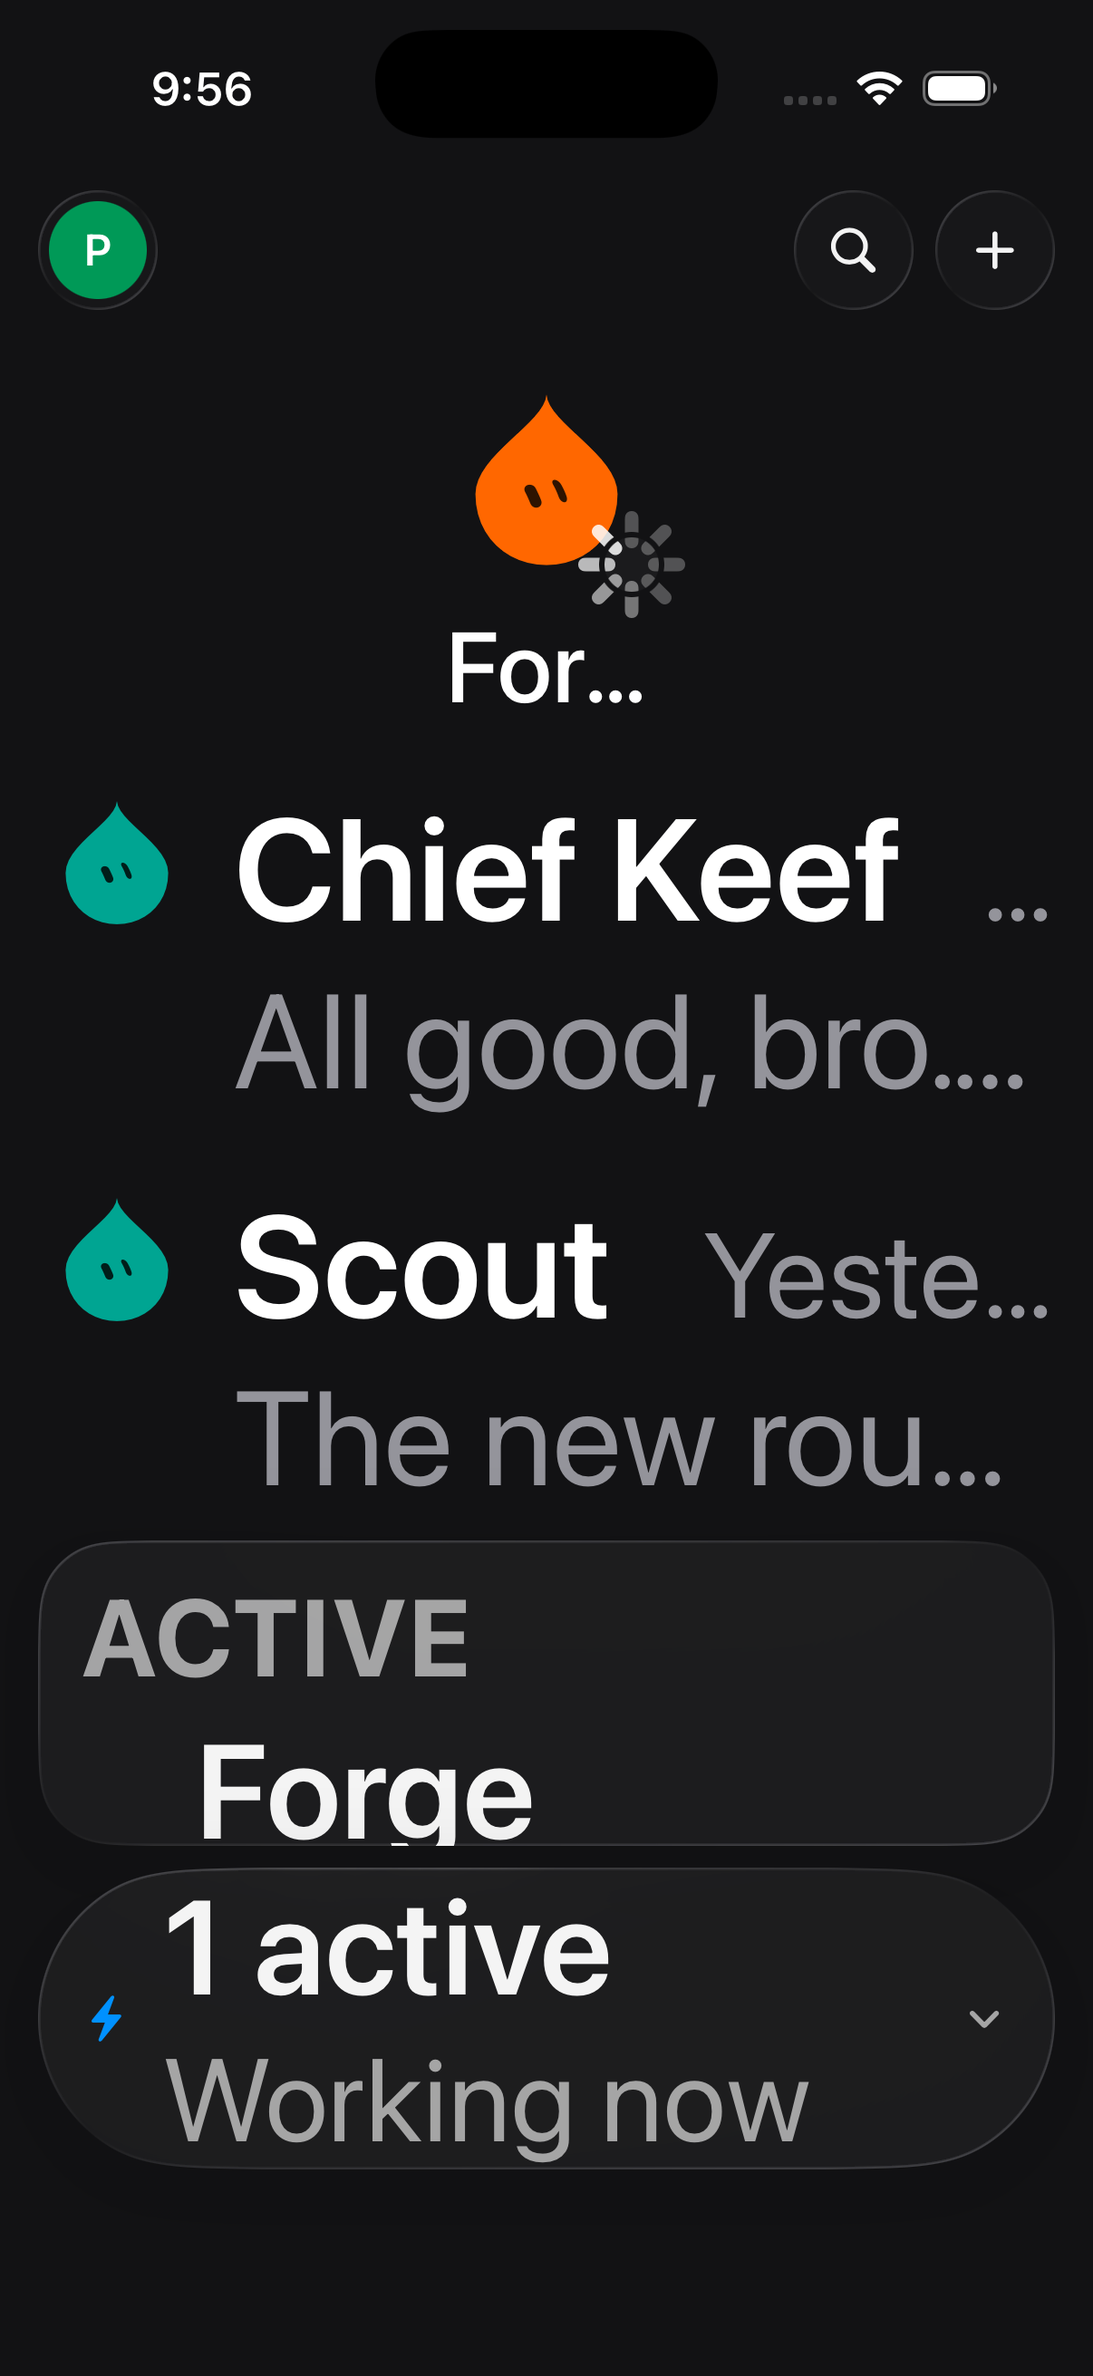
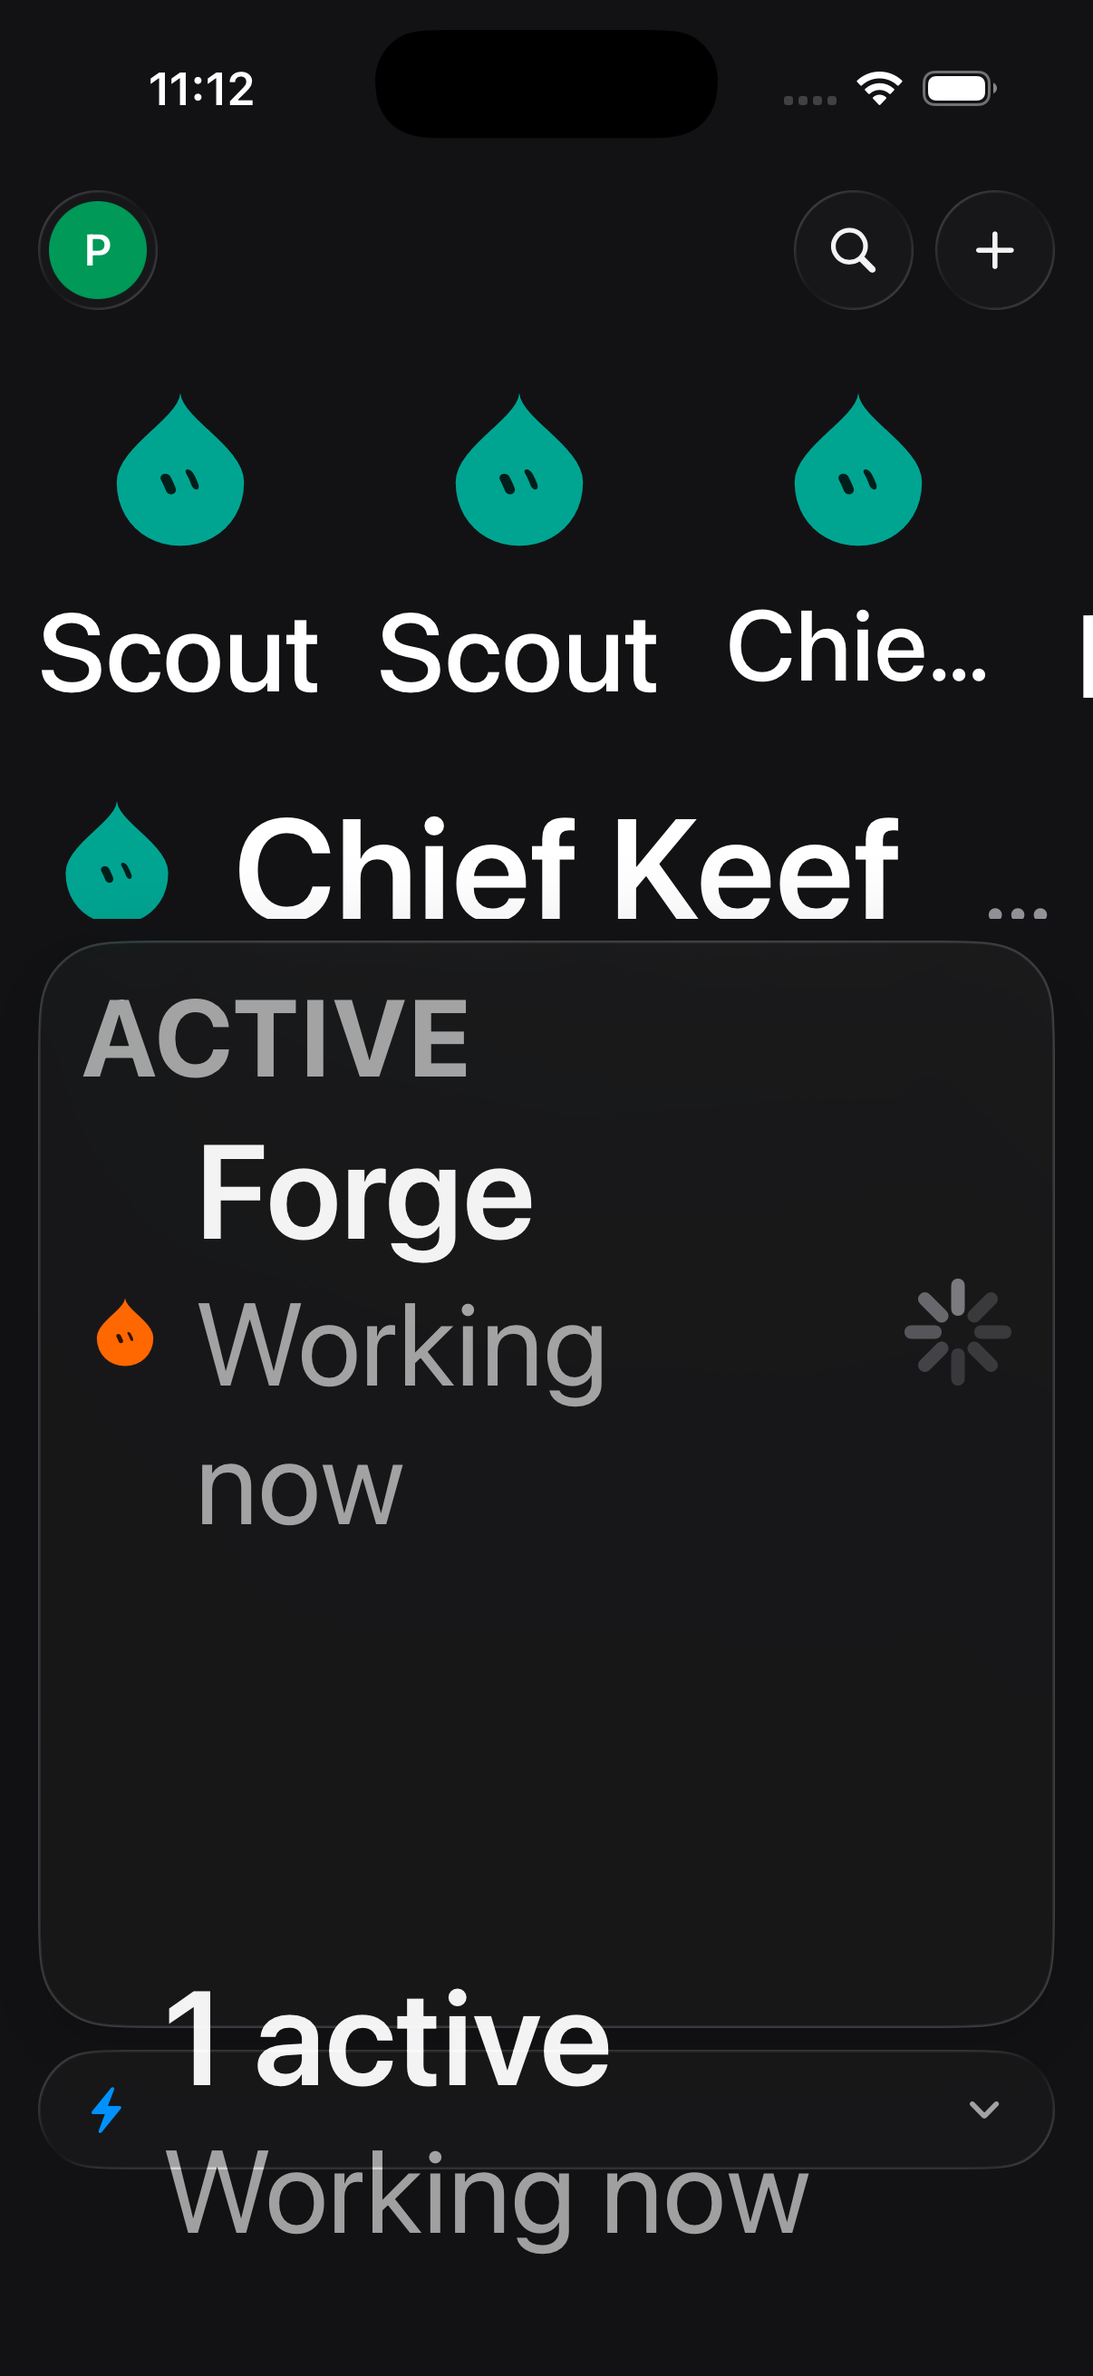
fix(ios): stabilize preview activity expansion

diff --git a/ios/App/HomeActivityPill.swift b/ios/App/HomeActivityPill.swift
@@ -12,6 +12,7 @@ struct HomeActivityPill: View {
 
     @EnvironmentObject private var session: Session
     @Environment(\.accessibilityReduceMotion) private var reduceMotion
+    @Environment(\.dynamicTypeSize) private var dynamicTypeSize
     @State private var expanded = false
 
     private var presentation: HomeActivityPresentation {
@@ -41,16 +42,29 @@ struct HomeActivityPill: View {
         .onAppear {
             // Keep expanded-state captures deterministic without adding any
             // production state or changing the normal collapsed launch.
-            if ProcessInfo.processInfo.arguments.contains("-preview-expand-activity"),
-               !presentation.items.isEmpty {
-                expanded = true
-            }
+            autoExpandPreviewIfNeeded()
+        }
+        .onChange(of: presentation.items) { _, _ in
+            // StorePreview may hydrate after the first appearance. Retry on
+            // the published projection instead of racing the initial render.
+            autoExpandPreviewIfNeeded()
         }
 #endif
         .onChange(of: presentation.state) { _, state in
             if state == .quiet, expanded { expanded = false }
         }
     }
+
+#if DEBUG
+    private func autoExpandPreviewIfNeeded() {
+        guard HomeActivityPreviewExpansionPolicy.shouldAutoExpand(
+            arguments: ProcessInfo.processInfo.arguments,
+            presentation: presentation,
+            isExpanded: expanded
+        ) else { return }
+        expanded = true
+    }
+#endif
 
     private var collapsedButton: some View {
         Button {
@@ -98,7 +112,7 @@ struct HomeActivityPill: View {
     }
 
     private var expandedPanel: some View {
-        ScrollView(.vertical, showsIndicators: false) {
+        ScrollView(.vertical, showsIndicators: dynamicTypeSize.isAccessibilitySize) {
             VStack(alignment: .leading, spacing: 0) {
                 ForEach(presentation.sections) { section in
                     let rows = section.items.compactMap { item -> (HomeActivityPresentation.Item, Chat)? in
@@ -126,7 +140,13 @@ struct HomeActivityPill: View {
             }
             .padding(.bottom, 8)
         }
-        .frame(maxHeight: 320)
+        .frame(
+            minHeight: HomeActivityPreviewExpansionPolicy.expandedPanelMinHeight(
+                isAccessibilitySize: dynamicTypeSize.isAccessibilitySize,
+                isExpanded: expanded
+            ),
+            maxHeight: dynamicTypeSize.isAccessibilitySize ? 400 : 320
+        )
         .glassSheet(cornerRadius: VBotSurface.Radius.sheet)
         .accessibilityElement(children: .contain)
         .accessibilityLabel("Activity details")
@@ -154,6 +174,7 @@ private struct HomeActivityRow: View {
     let chat: Chat
     let open: () -> Void
     @EnvironmentObject private var session: Session
+    @Environment(\.dynamicTypeSize) private var dynamicTypeSize
 
     var body: some View {
         Button(action: open) {
@@ -168,7 +189,11 @@ private struct HomeActivityRow: View {
                     Text(item.subtitle.isEmpty ? fallbackSubtitle : item.subtitle)
                         .font(.caption)
                         .foregroundStyle(.secondary)
-                        .lineLimit(2)
+                        // Accessibility captures need the complete approval
+                        // detail; the expanded panel scrolls when this grows
+                        // beyond its reserved height.
+                        .lineLimit(dynamicTypeSize.isAccessibilitySize ? nil : 2)
+                        .fixedSize(horizontal: false, vertical: true)
                 }
                 Spacer(minLength: 4)
                 trailing

diff --git a/ios/Tests/CompanionCoreTests/HomeActivityPreviewExpansionPolicyTests.swift b/ios/Tests/CompanionCoreTests/HomeActivityPreviewExpansionPolicyTests.swift
@@ -1,0 +1,73 @@
+import Foundation
+import Testing
+@testable import CompanionCore
+
+struct HomeActivityPreviewExpansionPolicyTests {
+    @Test
+    func previewExpansionWaitsForActivityItemsToArrive() throws {
+        let arguments = ["-store-preview", "-preview-expand-activity"]
+        let empty = HomeActivityPresentation(state: CompanionState())
+
+        #expect(!HomeActivityPreviewExpansionPolicy.shouldAutoExpand(
+            arguments: arguments,
+            presentation: empty,
+            isExpanded: false
+        ))
+
+        var state = try fixtureState()
+        _ = try #require(state.bots.first)
+        state.bots[0].busy = true
+        state.bots[0].activity = "working"
+        let populated = HomeActivityPresentation(state: state)
+
+        #expect(!populated.items.isEmpty)
+        #expect(HomeActivityPreviewExpansionPolicy.shouldAutoExpand(
+            arguments: arguments,
+            presentation: populated,
+            isExpanded: false
+        ))
+    }
+
+    @Test
+    func normalLaunchAndAlreadyExpandedPreviewDoNotRequestExpansion() throws {
+        let presentation = HomeActivityPresentation(state: try fixtureState())
+
+        #expect(!HomeActivityPreviewExpansionPolicy.shouldAutoExpand(
+            arguments: ["-store-preview"],
+            presentation: presentation,
+            isExpanded: false
+        ))
+        #expect(!HomeActivityPreviewExpansionPolicy.shouldAutoExpand(
+            arguments: ["-store-preview", "-preview-expand-activity"],
+            presentation: presentation,
+            isExpanded: true
+        ))
+    }
+
+    @Test
+    func accessibilityExpansionReservesReadablePanelHeightOnlyWhenExpanded() {
+        #expect(HomeActivityPreviewExpansionPolicy.expandedPanelMinHeight(
+            isAccessibilitySize: true,
+            isExpanded: true
+        ) == 400)
+        #expect(HomeActivityPreviewExpansionPolicy.expandedPanelMinHeight(
+            isAccessibilitySize: true,
+            isExpanded: false
+        ) == 0)
+        #expect(HomeActivityPreviewExpansionPolicy.expandedPanelMinHeight(
+            isAccessibilitySize: false,
+            isExpanded: true
+        ) == 0)
+    }
+
+    private func fixtureState() throws -> CompanionState {
+        let url = try #require(
+            Bundle.module.url(forResource: "bots-paged", withExtension: "json", subdirectory: "Fixtures")
+                ?? Bundle.module.url(forResource: "bots-paged", withExtension: "json")
+        )
+        let fleet = try JSONDecoder().decode(Fleet.self, from: Data(contentsOf: url))
+        var state = CompanionState()
+        state.hydrate(fleet)
+        return state
+    }
+}

diff --git a/ios/Sources/CompanionCore/HomeActivityPreviewExpansionPolicy.swift b/ios/Sources/CompanionCore/HomeActivityPreviewExpansionPolicy.swift
@@ -1,0 +1,25 @@
+import Foundation
+import CoreGraphics
+
+/// Keeps the DEBUG StorePreview activity expansion deterministic when the
+/// fixture arrives after the home view's first appearance.
+public enum HomeActivityPreviewExpansionPolicy: Sendable {
+    public static func expandedPanelMinHeight(
+        isAccessibilitySize: Bool,
+        isExpanded: Bool
+    ) -> CGFloat {
+        isAccessibilitySize && isExpanded ? 400 : 0
+    }
+
+    public static func shouldAutoExpand(
+        arguments: [String],
+        presentation: HomeActivityPresentation,
+        isExpanded: Bool
+    ) -> Bool {
+        guard !isExpanded,
+              arguments.contains("-store-preview"),
+              arguments.contains("-preview-expand-activity")
+        else { return false }
+        return !presentation.items.isEmpty
+    }
+}

diff --git a/.superpowers/sdd/task-4-report.md b/.superpowers/sdd/task-4-report.md
@@ -6,10 +6,11 @@ Starting commit: `5f05fed fix(ios): gate cursor-only work cards`
 
 ## Status
 
-The simulator and core release gates passed. Home activity states that the
-existing StorePreview fixture can represent were captured and inspected. No
-product code was changed during this gate. TestFlight upload, signed export,
-and physical-device verification remain intentionally out of scope here.
+The initial simulator and core release gates passed. Home activity states that
+the existing StorePreview fixture can represent were captured and inspected;
+the preview expansion race and accessibility layout were corrected in the
+final section below. TestFlight upload, signed export, and physical-device
+verification remain intentionally out of scope here.
 
 ## Commands and results
 
@@ -143,12 +144,12 @@ normal production contracts:
 - Release notes now describe upcoming build 72. `ios/project.yml` and all
   project build-number settings remain unchanged at 71.
 - Portable simulator evidence is tracked at
-  `ios/AppStore/screenshots/task-4-home-activity-2026-08-31/` (21 PNGs,
+  `ios/AppStore/screenshots/task-4-home-activity-2026-08-31/` (22 PNGs,
   1206 x 2622): needs-approval, connecting halo, quiet/active `large` and
   accessibility XXXL with Reduce Motion on/off, expanded active XXXL, and
-  work-card actions/no-actions captures. Four files suffixed `post-f891526`
-  were added after the layout remediation to close the needs-attention and
-  connecting accessibility matrix.
+  work-card actions/no-actions captures. Connecting captures `20` and `21`
+  retain their `post-f891526` suffix; expanded activity captures were
+  recaptured after the preview-expansion fix to close the accessibility matrix.
 
 ### Rerun commands
 
@@ -233,18 +234,53 @@ no full test suite or signed build was rerun.
 
 | State | Fixture and setting | Portable capture |
 | --- | --- | --- |
-| Needs-attention expanded activity | `-store-preview -preview-expand-activity`; accessibility XXXL, Reduce Motion on | `ios/AppStore/screenshots/task-4-home-activity-2026-08-31/18-expanded-needs-xxxl-reduce-motion-on-post-f891526.png` |
-| Needs-attention expanded activity | `-store-preview -preview-expand-activity`; accessibility XXXL, Reduce Motion off | `ios/AppStore/screenshots/task-4-home-activity-2026-08-31/19-expanded-needs-xxxl-reduce-motion-off-post-f891526.png` |
+| Needs-attention expanded activity | `-store-preview -preview-expand-activity`; accessibility XXXL, Reduce Motion on | `ios/AppStore/screenshots/task-4-home-activity-2026-08-31/18-expanded-needs-xxxl-reduce-motion-on-post-preview-expansion-fix.png` |
+| Needs-attention expanded activity | `-store-preview -preview-expand-activity`; accessibility XXXL, Reduce Motion off | `ios/AppStore/screenshots/task-4-home-activity-2026-08-31/19-expanded-needs-xxxl-reduce-motion-off-post-preview-expansion-fix.png` |
 | Initial connecting | `-store-preview -preview-connecting`; accessibility XXXL, Reduce Motion on | `ios/AppStore/screenshots/task-4-home-activity-2026-08-31/20-connecting-xxxl-reduce-motion-on-post-f891526.png` |
 | Initial connecting | `-store-preview -preview-connecting`; accessibility XXXL, Reduce Motion off | `ios/AppStore/screenshots/task-4-home-activity-2026-08-31/21-connecting-xxxl-reduce-motion-off-post-f891526.png` |
 
-Visual inspection found no Critical or Important overlap, clipping, or spacing
-finding. In both expanded needs-attention captures, the enlarged roster rows
-end above the activity panel; the panel is a sibling below the roster and its
-details remain vertically scrollable. The connecting captures show the halo
-around the profile while the enlarged roster remains stable. Reduce Motion on
-and off produce the same static content frame as expected.
+The connecting captures show the halo around the profile while the enlarged
+roster remains stable. The original expanded needs-attention captures from
+this pass were later found to be collapsed when the first frame raced fixture
+hydration; they are superseded by the preview-expansion-fix recaptures below.
 
-The four PNGs are 1206 x 2622 and are now part of the portable evidence set;
-the exact files and matrix are also listed in `ios/TESTING.md` and
-`ios/AppStore/screenshots/README.md`.
+The connecting PNGs are 1206 x 2622 and remain part of the portable evidence
+set; the needs-attention files above were superseded by the preview-expansion
+fix capture below.
+
+## Preview expansion race and accessibility evidence repair
+
+Date: 2026-08-31 (America/Chicago)
+
+The DEBUG-only activity expansion now observes `presentation.items` and retries
+after StorePreview hydration, so `-preview-expand-activity` no longer races an
+empty first projection. Normal production launches do not auto-expand. At
+accessibility XXXL the expanded panel reserves 400 points, renders the complete
+needs-you detail, and shows a vertical scroll indicator; the panel remains a
+sibling below the roster scroll view.
+
+Focused verification:
+
+```sh
+swift test --package-path ios --filter HomeActivityPreviewExpansionPolicyTests
+```
+
+Passed: three focused Swift Testing cases. Unsigned Debug simulator build
+passed with `** BUILD SUCCEEDED **` using iOS Simulator SDK 26.5 (derived data
+`/tmp/vbot-task4-debug-derived-final400fixed0831`). No full suite, signing,
+archive, upload, or device release gate was run for this correction.
+
+Portable recaptures (iPhone 17 Pro, iOS 26.5, 1206 x 2622, dark appearance):
+
+| State | Fixture and setting | Capture |
+| --- | --- | --- |
+| Needs-attention expanded activity | `-store-preview -preview-expand-activity`; XXXL, Reduce Motion on | `18-expanded-needs-xxxl-reduce-motion-on-post-preview-expansion-fix.png` |
+| Needs-attention expanded activity | `-store-preview -preview-expand-activity`; XXXL, Reduce Motion off | `19-expanded-needs-xxxl-reduce-motion-off-post-preview-expansion-fix.png` |
+| Active expanded activity | `-store-preview -preview-active -preview-bot=preview-forge -preview-expand-activity`; XXXL, Reduce Motion on | `13-expanded-active-xxxl-reduce-motion-on.png` |
+| Active expanded activity | `-store-preview -preview-active -preview-bot=preview-forge -preview-expand-activity`; XXXL, Reduce Motion off | `24-expanded-active-xxxl-reduce-motion-off-post-preview-expansion-fix.png` |
+
+The needs-attention captures visibly include the `NEEDS YOU` section, Scout,
+and the complete “Upload build 1 to TestFlight for internal testing?” detail.
+The active captures visibly include `ACTIVE`, Forge, and `Working now`. The
+expanded rail is laid out as a sibling below the roster, with no panel-over-row
+overlay in either Reduce Motion setting.

diff --git a/ios/TESTING.md b/ios/TESTING.md
@@ -202,6 +202,13 @@ stream, or state contracts:
 - `-preview-expand-activity` opens the activity panel on launch, and
   `-open-first` opens the selected preview conversation.
 
+When `-preview-expand-activity` is present, the DEBUG activity rail retries
+the expansion after its published item projection becomes non-empty. This
+avoids a first-render race when the StorePreview fixture hydrates after the
+home view appears. At accessibility XXXL, expanded activity reserves a
+400-point panel and shows a vertical scroll indicator so needs-you details are
+fully readable without covering roster rows; normal launches are unchanged.
+
 The home activity rail is a sibling below the roster scroll view. Its full
 expanded height is reserved even at accessibility XXXL, so enlarged rows stay
 outside the panel and remain reachable by scrolling. Reduce Motion removes the
@@ -231,13 +238,16 @@ The screenshots and the exact interaction steps are recorded in
 
 Portable evidence is tracked under
 `ios/AppStore/screenshots/task-4-home-activity-2026-08-31/`. The directory
-contains the normal/accessibility Dynamic Type matrix (quiet and active with
-Reduce Motion on and off), needs-approval and initial-connecting halo captures,
-needs-attention expanded activity at accessibility XXXL with Reduce Motion on
-and off, connecting at accessibility XXXL with Reduce Motion on and off, the
-expanded XXXL activity panel, and work cards with and without optional actions.
-The four files suffixed `post-f891526` were captured from the post-remediation
-build; they verify that enlarged roster rows remain outside the expanded panel.
+contains 22 PNGs: the normal/accessibility Dynamic Type matrix (quiet and
+active with Reduce Motion on and off), needs-approval and initial-connecting
+halo captures, needs-attention expanded activity at accessibility XXXL with
+Reduce Motion on and off, expanded active activity at accessibility XXXL with
+Reduce Motion on and off, connecting at accessibility XXXL with Reduce Motion
+on and off, and work cards with and without optional actions. Needs/active
+expanded captures `13`, `18`, `19`, and `24` were recaptured from the
+preview-expansion-fix build; connecting captures `20` and `21` retain their
+`post-f891526` suffix. These verify that enlarged roster rows remain outside
+the expanded panel and that detail text remains readable.
 All images are 1206 x 2622 PNGs from the simulator above.
 
 ## Stage 4 — the thing actually working

diff --git a/ios/AppStore/screenshots/README.md b/ios/AppStore/screenshots/README.md
@@ -3,14 +3,17 @@
 `iPhone-6.9-roster.png` is captured from the Debug-only `-store-preview` fixture on an iPhone 17 Pro simulator. Re-capture it after any material roster or approval UI change, and capture the remaining product-page screens from a real paired device before submission.
 
 `task-4-home-activity-2026-08-31/` contains portable simulator QA evidence for
-the home activity release gate. The 21 PNGs use the iPhone 17 Pro simulator
+the home activity release gate. The 22 PNGs use the iPhone 17 Pro simulator
 (iOS 26.5, 1206 x 2622, dark appearance): needs-approval and initial-connecting
 halo states, quiet and active states at `large` and accessibility XXXL text
 sizes with Reduce Motion on and off, needs-attention expanded activity captures
 at accessibility XXXL with Reduce Motion on and off, an accessibility XXXL
 connecting matrix, an expanded activity panel at XXXL, and work cards with and
-without optional actions. The four files suffixed `post-f891526` were captured
-from the post-remediation build and specifically verify that enlarged roster
-rows remain outside the expanded panel. These are QA captures, not App Store
+without optional actions. The expanded needs-attention captures (`18` and `19`)
+and expanded active captures (`13` and `24`) were recaptured from the
+preview-expansion-fix build; the connecting captures (`20` and `21`) retain
+their `post-f891526` suffix. These captures verify that enlarged roster rows
+remain outside the expanded panel and that detail text remains readable at
+XXXL. These are QA captures, not App Store
 marketing screenshots; fixture arguments and test commands are recorded in
 `.superpowers/sdd/task-4-report.md`.
